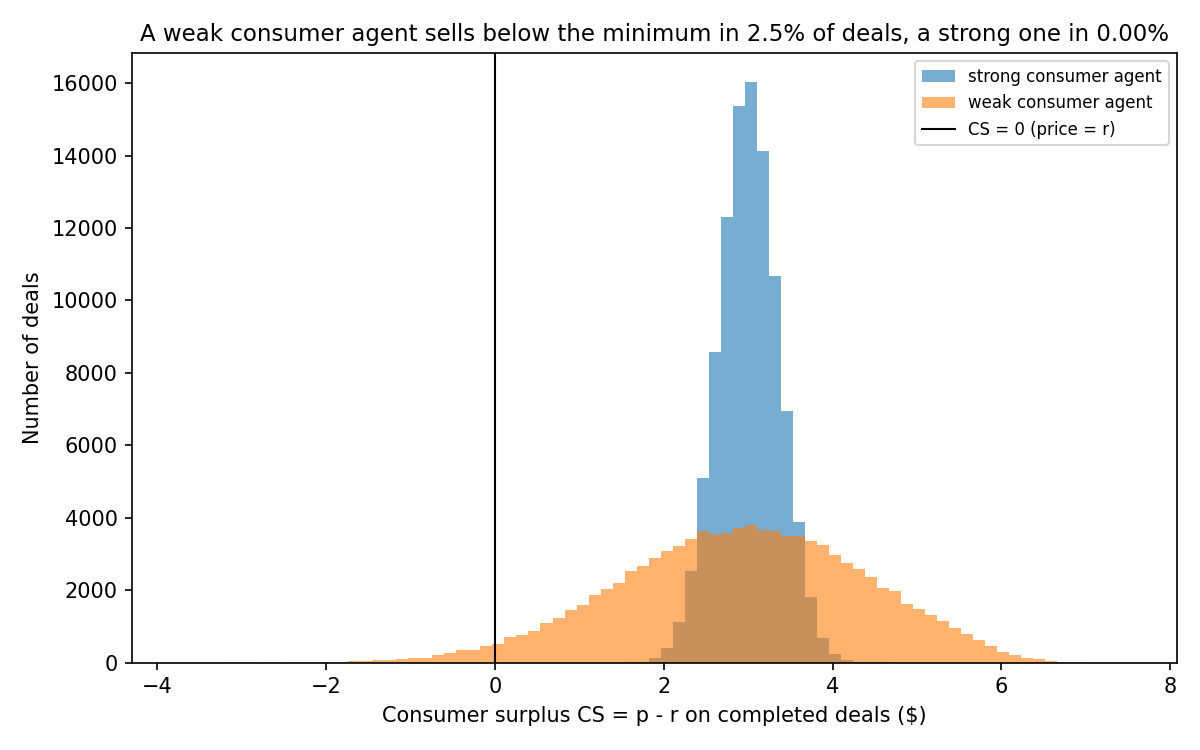
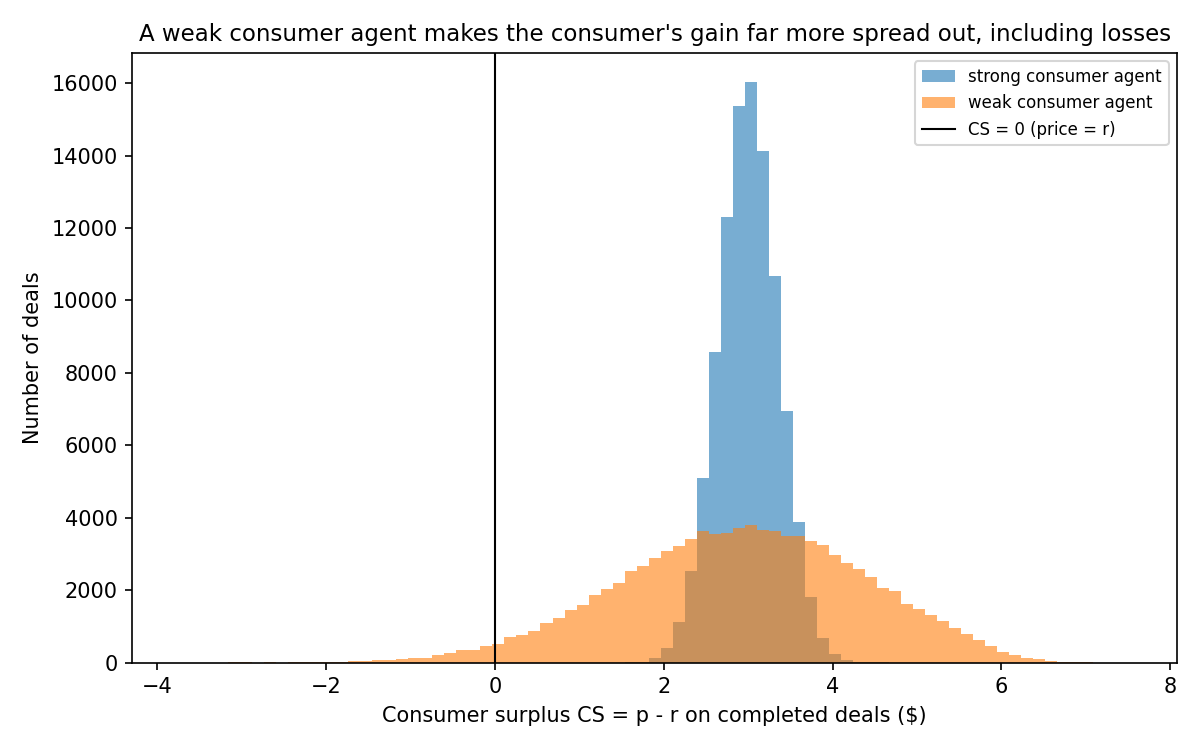
Add robustness checks and retitle consumer gain histogram
- New bazaar/robustness.py, run from run_v0.py: weak consumer vs strong
  firm agent under normal, clipped and lognormal noise, plus a grid of
  deal-zone widths (v - r = 2, 6, 10) and consumer sigmas (1, 2, 3, 5).
  Results saved to results/robustness.csv and tabled in the README.
- Retitle consumer_gain_hist.png; the bad-sale rate moves to the README
  caption, with a note that it depends on the noise shape.
- Tests: the width 6 / sigma 3 cell reproduces the baseline weak/strong
  row exactly, and CS + FS + lost value = 6 holds for every noise shape.

Baseline model unchanged.

Changed region(s): [[0.1233, 0.0307, 0.9867, 0.0613]]

diff --git a/bazaar/robustness.py b/bazaar/robustness.py
@@ -1,0 +1,116 @@
+"""Robustness checks for the learning result (Step B): does it survive other
+noise shapes and other deal-zone sizes?
+
+The baseline model is unchanged. This file only swaps in a different way of
+drawing the agents' reports, then prices and scores each deal with the same
+Bazaar and score() as the baseline.
+
+Settings for every case (all fixed, as agreed with the human):
+- 100,000 draws, seed 0, beta = 1/2 (b_c = b_f = 1).
+- r = 4 always. v = r + width of the deal zone.
+- Firm agent always strong: sigma_f = 0.5.
+- The same noise shape is applied to BOTH agents' reports.
+"""
+
+import numpy as np
+import pandas as pd
+
+from bazaar.model import Bazaar, score
+from bazaar.simulate import summarize
+
+SEED = 0
+N_DRAWS = 100_000
+R = 4.0
+SIGMA_F = 0.5          # strong firm agent
+SIGMA_C_BASELINE = 3.0  # weak consumer agent
+
+# Part a: noise shapes, weak consumer / strong firm, baseline v = 10.
+NOISE_SHAPES = ["normal", "clipped", "lognormal"]
+# Part b: normal noise, deal-zone widths v - r and consumer agent sigmas.
+WIDTHS = [2.0, 6.0, 10.0]
+SIGMAS_C = [1.0, 2.0, 3.0, 5.0]
+
+
+def shaped_report(true_value: float, sigma: float, shape: str, rng: np.random.Generator) -> float:
+    """Return one agent report of true_value with noise of the given shape.
+
+    normal:    true + Normal(0, sigma^2). Same as the baseline Agent.report,
+               and it uses the random numbers in the same order, so the same
+               seed gives the same draws.
+    clipped:   the normal report, but never below $0 (no negative prices).
+    lognormal: true * exp(z), z ~ Normal(-s^2/2, s^2), with
+               s = sqrt(ln(1 + (sigma/true)^2)). This keeps the report's mean
+               equal to the true value and its dollar standard deviation equal
+               to sigma, but the report is always positive and skewed right
+               (big over-reports are more likely than big under-reports).
+    """
+    if shape == "normal":
+        return true_value + rng.normal(0.0, sigma)
+    if shape == "clipped":
+        return max(0.0, true_value + rng.normal(0.0, sigma))
+    if shape == "lognormal":
+        s = np.sqrt(np.log(1.0 + (sigma / true_value) ** 2))
+        z = rng.normal(-s**2 / 2.0, s)
+        return true_value * np.exp(z)
+    raise ValueError(f"unknown noise shape: {shape}")
+
+
+def run_case(shape: str, r: float, v: float, sigma_c: float, sigma_f: float,
+             n_draws: int = N_DRAWS, seed: int = SEED) -> pd.DataFrame:
+    """Run n_draws deals with the given noise shape and return a results log.
+
+    Each draw: the consumer's agent reports r_hat, the firm's agent reports
+    v_hat (both with the chosen noise shape), the bazaar sets the price with
+    beta = 1/2, and the deal is scored with the TRUE r and v.
+    """
+    rng = np.random.default_rng(seed)
+    bazaar = Bazaar()
+    b_c, b_f = 1.0, 1.0  # equal bargaining strength, so beta = 1/2
+
+    rows = []
+    for draw in range(n_draws):
+        r_hat = shaped_report(r, sigma_c, shape, rng)
+        v_hat = shaped_report(v, sigma_f, shape, rng)
+        p = bazaar.set_price(r_hat, v_hat, b_c, b_f)
+        rows.append({
+            "scenario": f"{shape}, v-r={v - r:g}, sigma_c={sigma_c:g}",
+            "draw": draw, "r": r, "v": v, "sigma_c": sigma_c, "sigma_f": sigma_f,
+            "r_hat": r_hat, "v_hat": v_hat, "deal": p is not None,
+            "p": np.nan if p is None else p,
+            **score(r, v, p),
+        })
+    return pd.DataFrame(rows)
+
+
+def case_row(part: str, shape: str, v: float, sigma_c: float) -> dict:
+    """Run one robustness case and return its summary row for the table.
+
+    Benchmark CS is what the consumer would get with full information and
+    equal power: half the deal zone, (v - r) / 2.
+    """
+    s = summarize(run_case(shape, R, v, sigma_c, SIGMA_F))
+    return {
+        "part": part,
+        "noise": shape,
+        "width": v - R,
+        "v": v,
+        "sigma_c": sigma_c,
+        "sigma_f": SIGMA_F,
+        "lost_rate": s["lost_rate"],
+        "bad_sale_rate": s["bad_sale_rate"],
+        "bad_buy_rate": s["bad_buy_rate"],
+        "mean_CS": s["mean_CS"],
+        "mean_FS": s["mean_FS"],
+        "benchmark_CS": (v - R) / 2.0,
+    }
+
+
+def run_robustness() -> pd.DataFrame:
+    """Run part a (noise shapes) and part b (width x sigma grid); return one table."""
+    rows = []
+    for shape in NOISE_SHAPES:
+        rows.append(case_row("a: noise shape", shape, R + 6.0, SIGMA_C_BASELINE))
+    for width in WIDTHS:
+        for sigma_c in SIGMAS_C:
+            rows.append(case_row("b: grid", "normal", R + width, sigma_c))
+    return pd.DataFrame(rows)

diff --git a/tests/test_v0.py b/tests/test_v0.py
@@ -56,3 +56,27 @@ def test_step_b_lost_rate_matches_formula(kind_c: str, kind_f: str) -> None:
     simulated = (df["outcome"] == "lost deal").mean()
     formula = lost_deal_formula(4.0, 10.0, agent_c.sigma, agent_f.sigma)
     assert abs(simulated - formula) < 0.005
+
+
+def test_robustness_grid_reproduces_baseline() -> None:
+    """Robustness grid cell (normal, v - r = 6, sigma_c = 3) gives exactly the
+    Step B weak/strong row: same seed, same draws, same numbers."""
+    from bazaar.robustness import run_case
+    from bazaar.simulate import summarize
+
+    robust = summarize(run_case("normal", 4.0, 10.0, 3.0, 0.5, n_draws=20_000))
+    agent_c = make_agent("weak", b=1.0)
+    agent_f = make_agent("strong", b=1.0)
+    baseline = summarize(run_scenario("weak/strong", agent_c, agent_f, n_draws=20_000))
+    for key in ["lost_rate", "bad_sale_rate", "bad_buy_rate", "mean_CS", "mean_FS"]:
+        assert robust[key] == baseline[key]
+
+
+@pytest.mark.parametrize("shape", ["normal", "clipped", "lognormal"])
+def test_robustness_identity_every_draw(shape: str) -> None:
+    """CS + FS + lost value = v - r on every draw, for every noise shape."""
+    from bazaar.robustness import run_case
+
+    df = run_case(shape, 4.0, 10.0, 3.0, 0.5, n_draws=10_000)
+    total = df["CS"] + df["FS"] + df["lost_value"]
+    assert (abs(total - 6.0) < 1e-9).all()

diff --git a/run_v0.py b/run_v0.py
@@ -14,6 +14,7 @@ import pandas as pd
 from bazaar.model import Agent, Consumer, Firm, make_agent
 from bazaar.plots import (plot_consumer_gain_hist, plot_noise_sweep,
                           plot_outcome_map, plot_surplus_split)
+from bazaar.robustness import run_robustness
 from bazaar.simulate import lost_deal_formula, run_scenario, summarize
 
 SEED = 0
@@ -104,6 +105,15 @@ def main() -> None:
     print(f"\nNoise sweep: same sigma for both agents (beta = 1/2, {N_DRAWS:,} draws each)")
     print(sweep.to_string(index=False, formatters={
         "sigma": "{:.2f}".format, "lost_rate": pct, "lost_rate_formula": pct}))
+
+    # Robustness: other noise shapes and deal-zone widths
+    robust = run_robustness()
+    robust.to_csv("results/robustness.csv", index=False)
+    print(f"\nRobustness: weak consumer / strong firm agent (beta = 1/2, {N_DRAWS:,} draws each)")
+    print(robust.to_string(index=False, formatters={
+        "width": "{:g}".format, "v": "{:g}".format, "sigma_c": "{:g}".format,
+        "sigma_f": "{:g}".format, "lost_rate": pct, "bad_sale_rate": pct,
+        "bad_buy_rate": pct, "mean_CS": money, "mean_FS": money, "benchmark_CS": money}))
 
     # Figures
     plot_outcome_map(logs["weak/weak"].head(2000), R, V, "figures/outcome_map.png")

diff --git a/bazaar/plots.py b/bazaar/plots.py
@@ -104,10 +104,10 @@ def plot_consumer_gain_hist(strong_c: pd.DataFrame, weak_c: pd.DataFrame, path: 
     ax.hist(cs_weak, bins=bins, alpha=0.6, label="weak consumer agent")
     ax.axvline(0, color="black", lw=1, label="CS = 0 (price = r)")
 
-    below_weak = (cs_weak < 0).mean()
-    below_strong = (cs_strong < 0).mean()
-    ax.set_title(f"A weak consumer agent sells below the minimum in {below_weak:.1%} of deals, "
-                 f"a strong one in {below_strong:.2%}", fontsize=11)
+    # The bad-sale rate goes in the README caption, not the title: its size
+    # depends on the noise shape (see the Robustness section).
+    ax.set_title("A weak consumer agent makes the consumer's gain far more spread out, "
+                 "including losses", fontsize=11)
     ax.set_xlabel("Consumer surplus CS = p - r on completed deals ($)")
     ax.set_ylabel("Number of deals")
     ax.legend(fontsize=8)

diff --git a/README.md b/README.md
@@ -58,10 +58,39 @@ Rates are shares of all draws. The formula column is $\Phi\left(-\frac{v - r}{\s
 *Mean CS, FS and lost value per scenario. Every bar totals $6.*
 
 ![Consumer gain histogram](figures/consumer_gain_hist.png)
-*Consumer surplus on completed deals with a strong firm agent: a weak consumer agent gives a much wider spread, including losses.*
+*Consumer surplus on completed deals with a strong firm agent. With normal noise, a weak consumer agent sells below the minimum in 2.47% of completed deals (2.41% of all draws), a strong one in 0%. That rate depends on the noise shape: with clipped or lognormal noise it is 0% here, because a bad sale would need a negative report (see Robustness).*
 
 ![Noise sweep](figures/noise_sweep.png)
 *Lost deal rate as both agents get noisier: the simulation tracks the formula.*
+
+## Robustness
+
+Does the learning result (Step B) depend on the normal noise or on the size of the deal zone? Every case: weak consumer agent vs strong firm agent ($\sigma_f = 0.5$), $\beta = 1/2$, $r = 4$, 100,000 draws, seed 0. The noise shape is applied to both agents' reports. Benchmark CS $= (v - r)/2$.
+
+- **a) Noise shape** ($v = 10$, $\sigma_c = 3$). *Normal* is the baseline. *Clipped* is the normal report, floored at 0 dollars. *Lognormal* is $\text{true} \cdot e^{z}$, $z \sim N(-s^2/2, s^2)$, $s = \sqrt{\ln(1 + (\sigma/\text{true})^2)}$: same mean and same dollar standard deviation as the normal report, but always positive and skewed right.
+- **b) Grid** (normal noise): deal-zone width $v - r \in \{2, 6, 10\}$, so $v \in \{6, 10, 14\}$; $\sigma_c \in \{1, 2, 3, 5\}$.
+
+| case | noise | $v - r$ | $\sigma_c$ | lost deals | bad sales | bad buys | mean CS | mean FS | benchmark CS |
+|---|---|---|---|---|---|---|---|---|---|
+| a | normal | 6 | 3 | 2.49% | 2.41% | 0.69% | 2.84 | 3.01 | 3.00 |
+| a | clipped | 6 | 3 | 2.49% | 0.00% | 0.69% | 2.91 | 2.94 | 3.00 |
+| a | lognormal | 6 | 3 | 4.54% | 0.00% | 0.57% | 2.65 | 3.07 | 3.00 |
+| b | normal | 2 | 1 | 3.74% | 3.65% | 2.62% | 0.94 | 0.99 | 1.00 |
+| b | normal | 2 | 2 | 16.73% | 16.49% | 4.74% | 0.61 | 1.06 | 1.00 |
+| b | normal | 2 | 3 | 25.72% | 25.55% | 4.09% | 0.28 | 1.21 | 1.00 |
+| b | normal | 2 | 5 | 34.63% | 34.56% | 2.91% | -0.25 | 1.56 | 1.00 |
+| b | normal | 6 | 1 | 0.00% | 0.00% | 0.00% | 3.00 | 3.00 | 3.00 |
+| b | normal | 6 | 2 | 0.21% | 0.19% | 0.11% | 2.99 | 3.00 | 3.00 |
+| b | normal | 6 | 3 | 2.49% | 2.41% | 0.69% | 2.84 | 3.01 | 3.00 |
+| b | normal | 6 | 5 | 11.67% | 11.56% | 1.49% | 2.17 | 3.13 | 3.00 |
+| b | normal | 10 | 1 | 0.00% | 0.00% | 0.00% | 5.00 | 5.00 | 5.00 |
+| b | normal | 10 | 2 | 0.00% | 0.00% | 0.00% | 5.00 | 5.00 | 5.00 |
+| b | normal | 10 | 3 | 0.06% | 0.05% | 0.01% | 5.00 | 5.00 | 5.00 |
+| b | normal | 10 | 5 | 2.39% | 2.33% | 0.42% | 4.74 | 5.02 | 5.00 |
+
+The size of the weak side's loss depends on noise relative to the deal zone, but the direction holds in every case: the weak consumer never comes out ahead of the benchmark. Where the noise is small relative to the zone (no lost deals), the gap is zero to within simulation error; wherever deals are lost, the weak consumer keeps less than the benchmark and less than the firm.
+
+Two things to notice. Clipping removes bad sales here but leaves lost deals unchanged, and the consumer still ends below 3 dollars. Lognormal noise also removes bad sales, but its right skew (big over-reports) nearly doubles lost deals, so the weak consumer does worse than under normal noise. The width 6, $\sigma_c = 3$ grid cell reproduces the baseline weak/strong row exactly.
 
 ## What I learned
 
